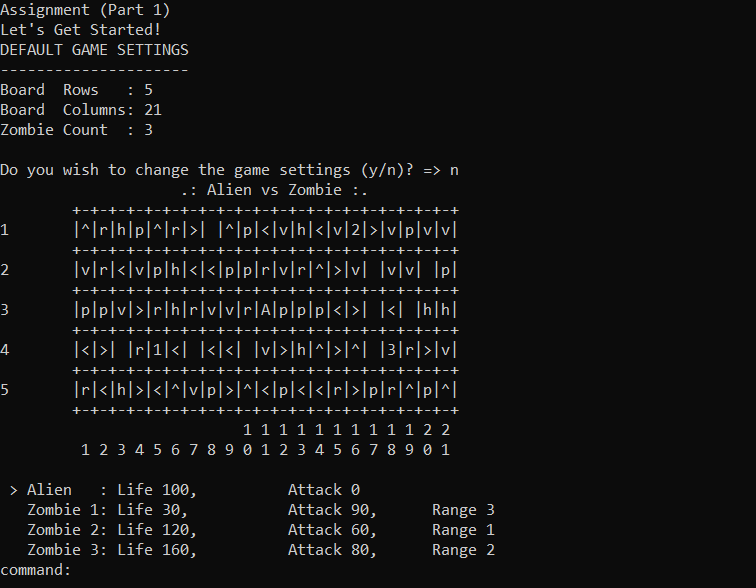
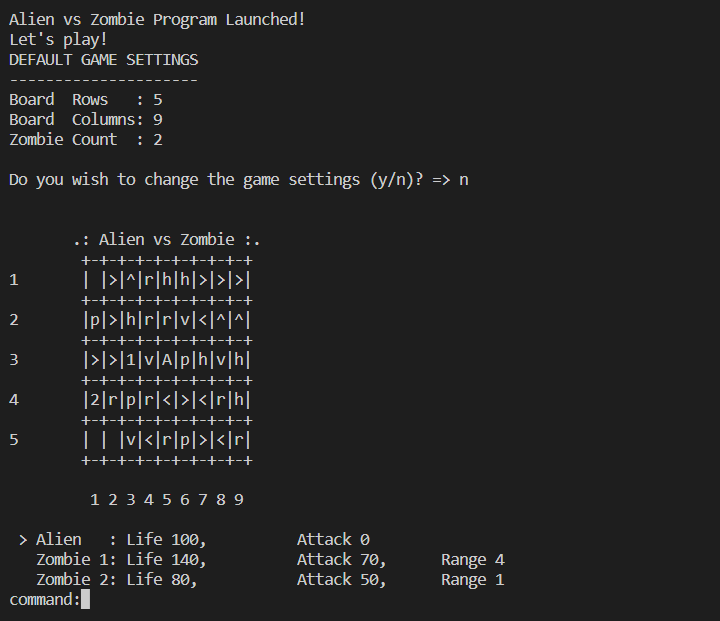
update display

diff --git a/main.cpp b/main.cpp
@@ -33,6 +33,9 @@ int main(){
       int zombie_count = 2 ; //default
       bool setting_option = false ; 
       string option = "N";
+      cout <<endl;
+      cout << "Alien vs Zombie Program Launched!" << endl;
+      cout << "Let's play!" << endl;
       //cout << "Assignment (Part 1)" << endl;
       //cout << "Let's Get Started!" << endl;
       DisplayGameSettings(row, col, zombie_count);
